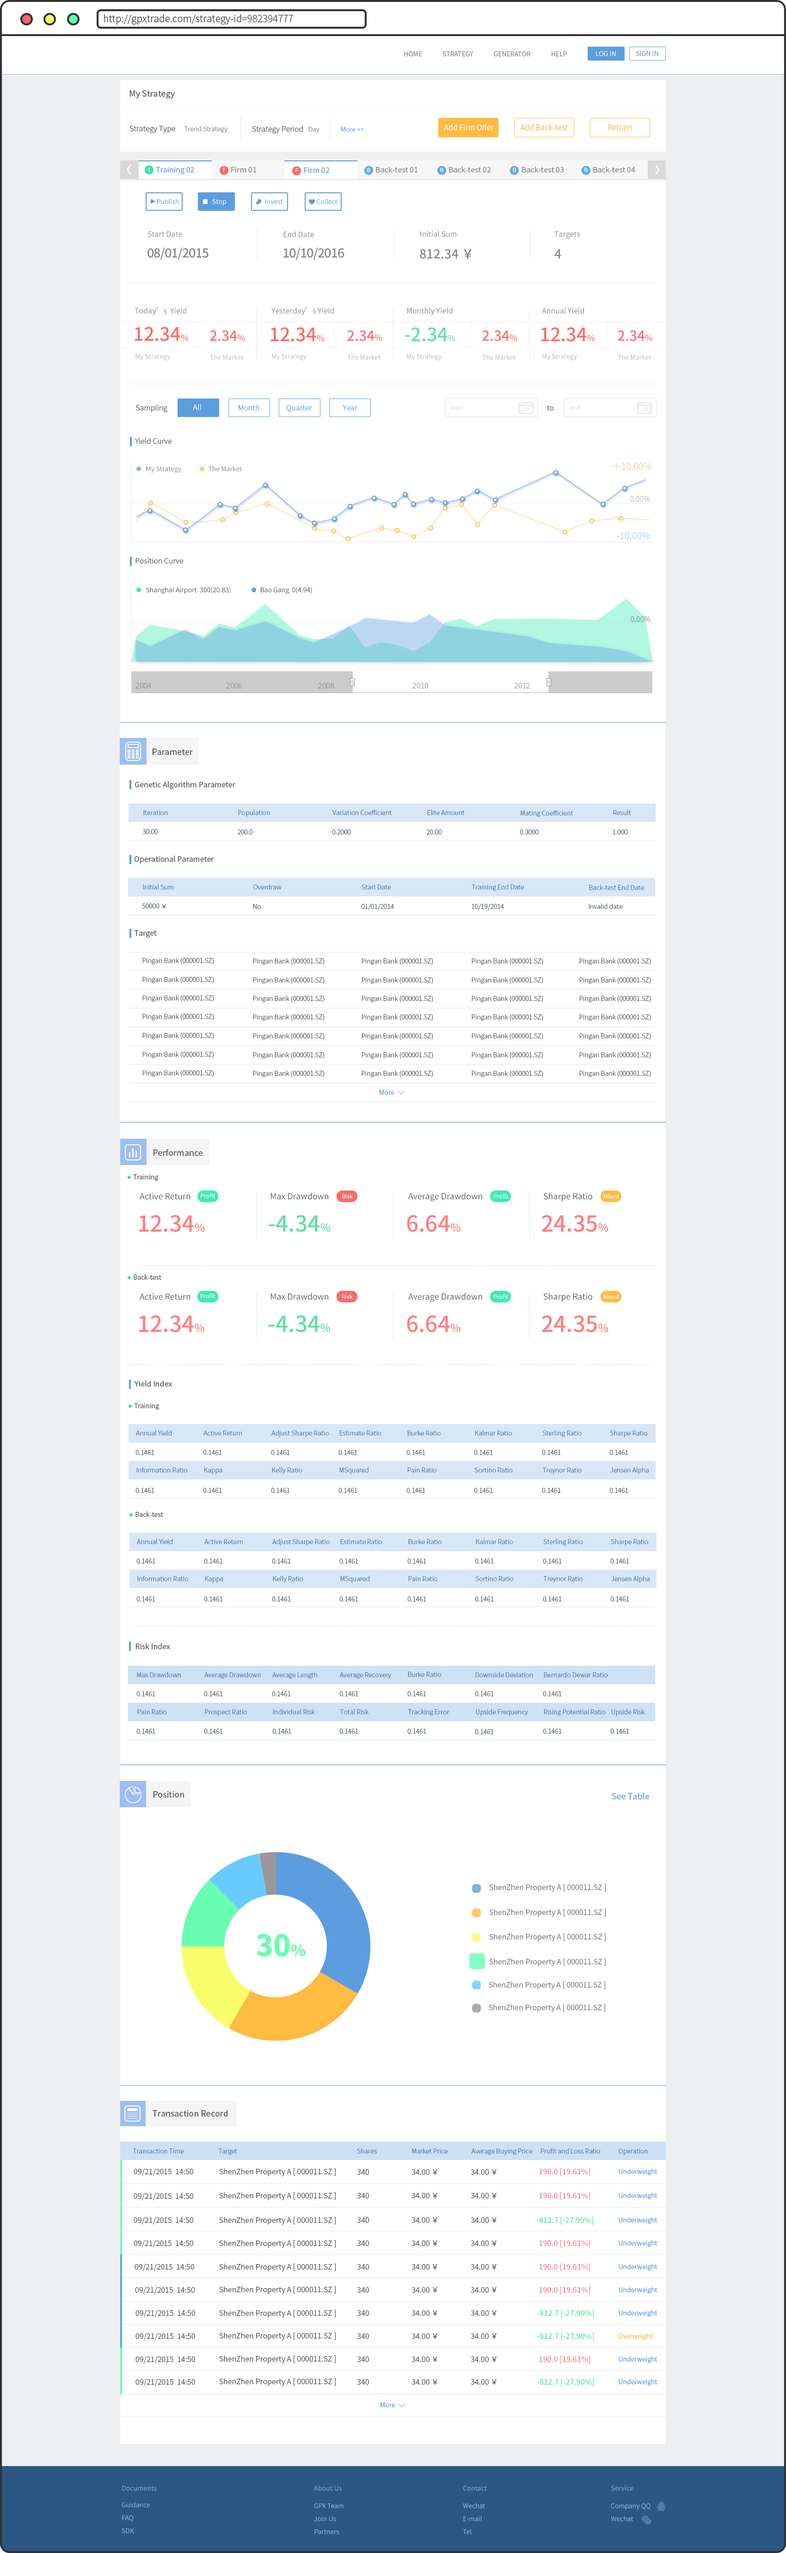
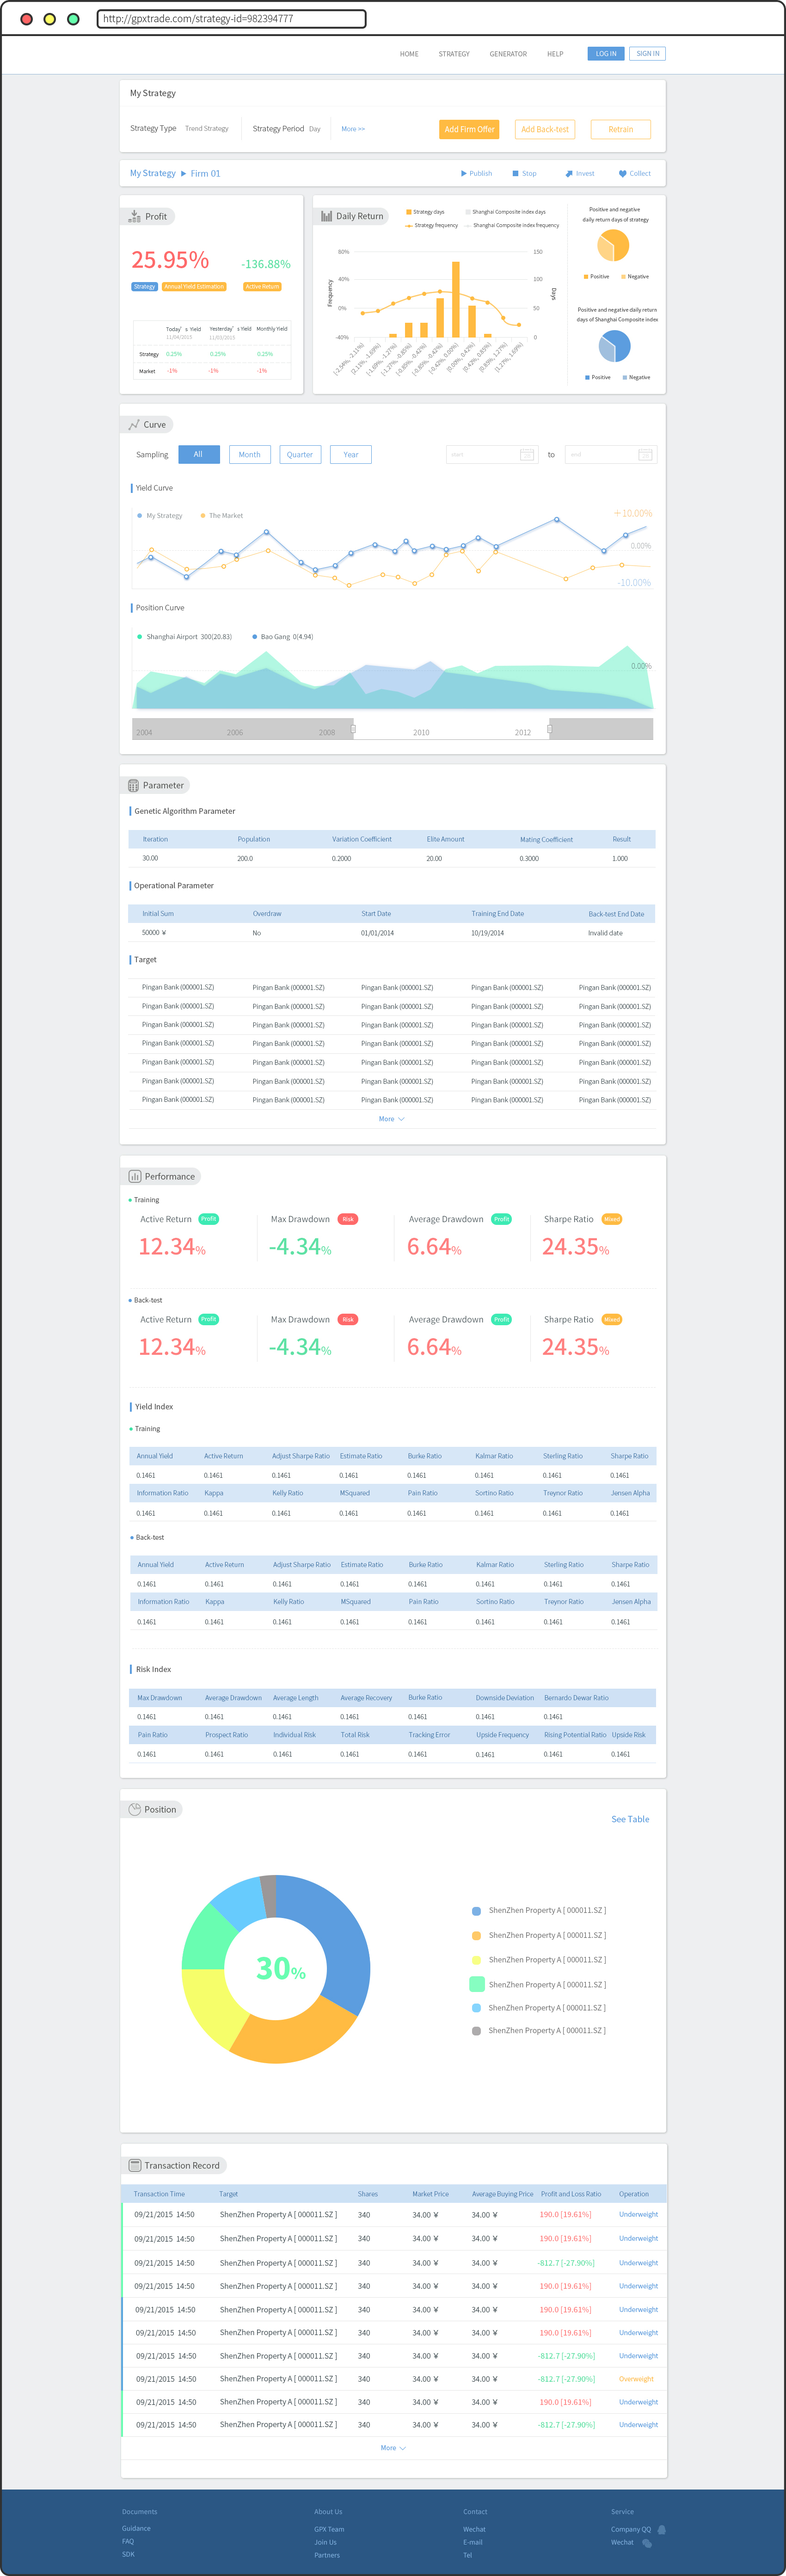
change strategy detail

diff --git a/GPX.html b/GPX.html
@@ -293,11 +293,16 @@
       </div>
       <div class="sectContent">
         On this web page, user is able to see all the details of a strategy and also manage operations of a certain strategy such as "Add Back-test" and "Retrain".
-         This web page includes a lots of elements like <i>forms and charts</i> and requires more <i>interactions</i> with the user.
+         This web page includes a lots of elements like <i>forms and charts</i> and requires many <i>interactions</i> with the user.
+      </div>
+      <div class="sectContent">
+        I also adopted layout of <i>dashboard</i> in order for user to identify each section with ease. I used a independent module to
+        place the crumbs that indicate user's location and buttons that are relevant to the task, and when user scroll down, this module will
+        be fixed on the top of the screen.
       </div>
       <div class="sectContent">
         I strengthened the important functions and numbers using different colors while keeping the color style consistent. Beyond that, in order to help user to gain a better interaction
-        experience, I added <i>animation</i> on the curve graphs like "Yield Curve" and " Position Curve" and on the pie chart, the "Position". When users hover over a curve, the curve will obtain a
+        experience, I added <i>animation</i> on the curve graphs like "Yield Curve", "Position Curve" and on the pie chart, the "Position". When users hover over a curve, the curve will obtain a
         shadow and that makes it looks like floating, and when users hover one part of the pie chart, a certain legend on the right will enlarge to help users to read the information corresponding to this part.
       </div>
       <a href="img/GPX/StrategyDetail.jpg" target="_blank"><img src="img/GPX/StrategyDetail.jpg" alt="Strategy Detail" /></a>
